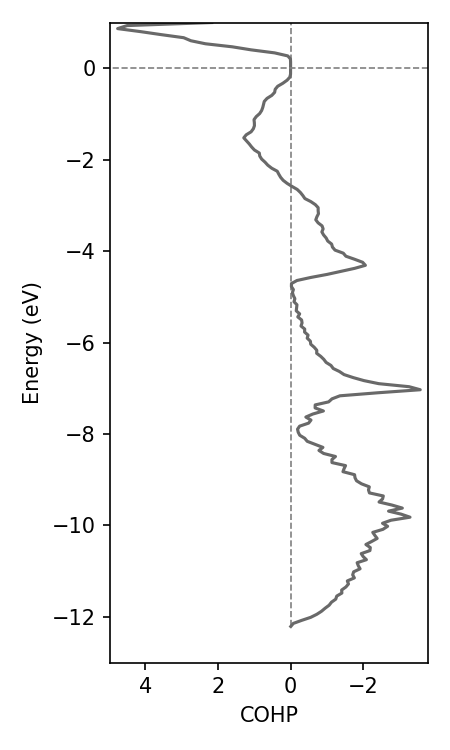
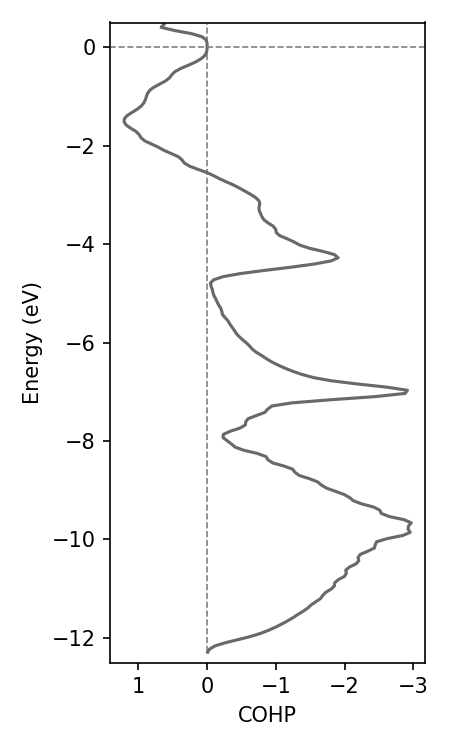
Include the uniform plots

diff --git a/index.md b/index.md
@@ -116,4 +116,20 @@ This class is for generates a band structure from a default high symmetry line f
 
 This generates a uniform k-point grid, able to perform DOS and itegrated band energy analysis.
 
+<div style="display: flex; justify-content: space-around;">
+    <div class="image-container" style="height: 300px;">
+	<div class="image-container" style="height: 250px;">
+        	<img src="./docs/Si/projectedDOS.png" alt="Image 2" width="90%" class="image-hover">
+        	<div class="overlay-text">Plot orbital<br>projected DOS</div>
+    	</div>
+    	<div class="image-container" style="height: 300px;">
+        	<img src="./docs/Si/COHP_DOS.png" alt="Image 2" width="90%" class="image-hover">
+        	<div class="overlay-text">Plot COHP/COOP<br>energy density</div>
+    	</div>
+    </div>
+    <div class="image-container" style="height: 300px;">
+	<iframe src="docs/PbO/crystal_bonds.html" style="transform: scale(0.75); transform-origin: top left; width: 150%; height: 150%; border: 0;"></iframe>
+       <div class="overlay-text">Plot crytstal with<br>COGITO bonds</div>
+    </div>
+</div>  
 
